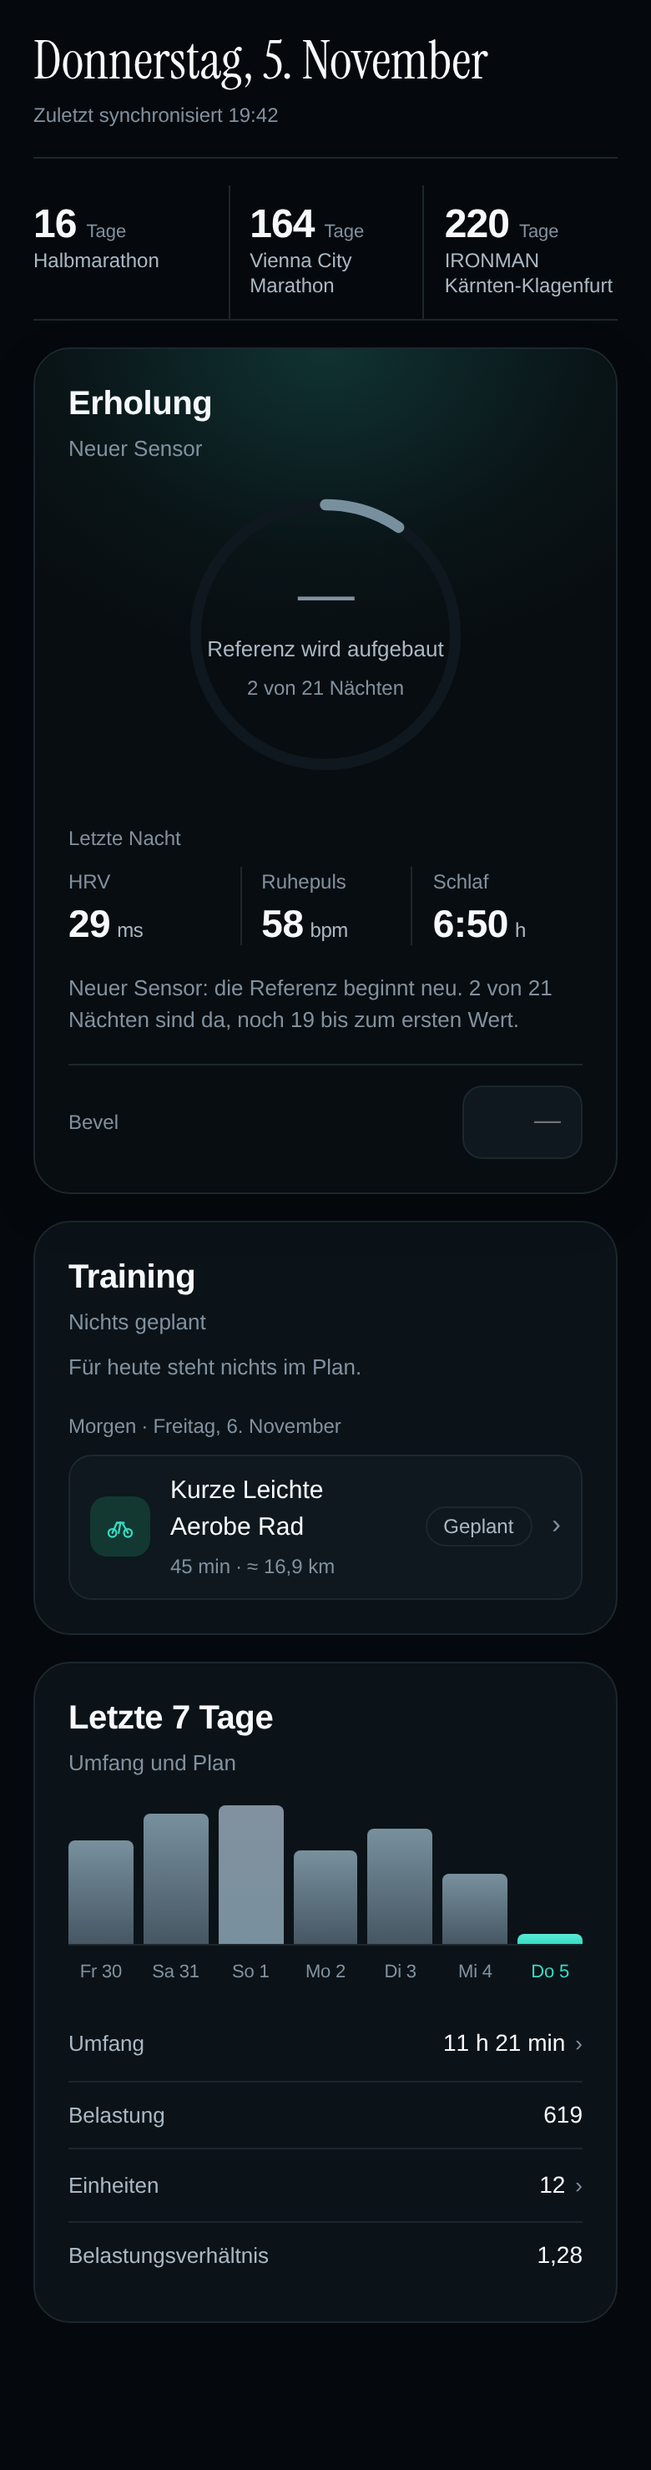
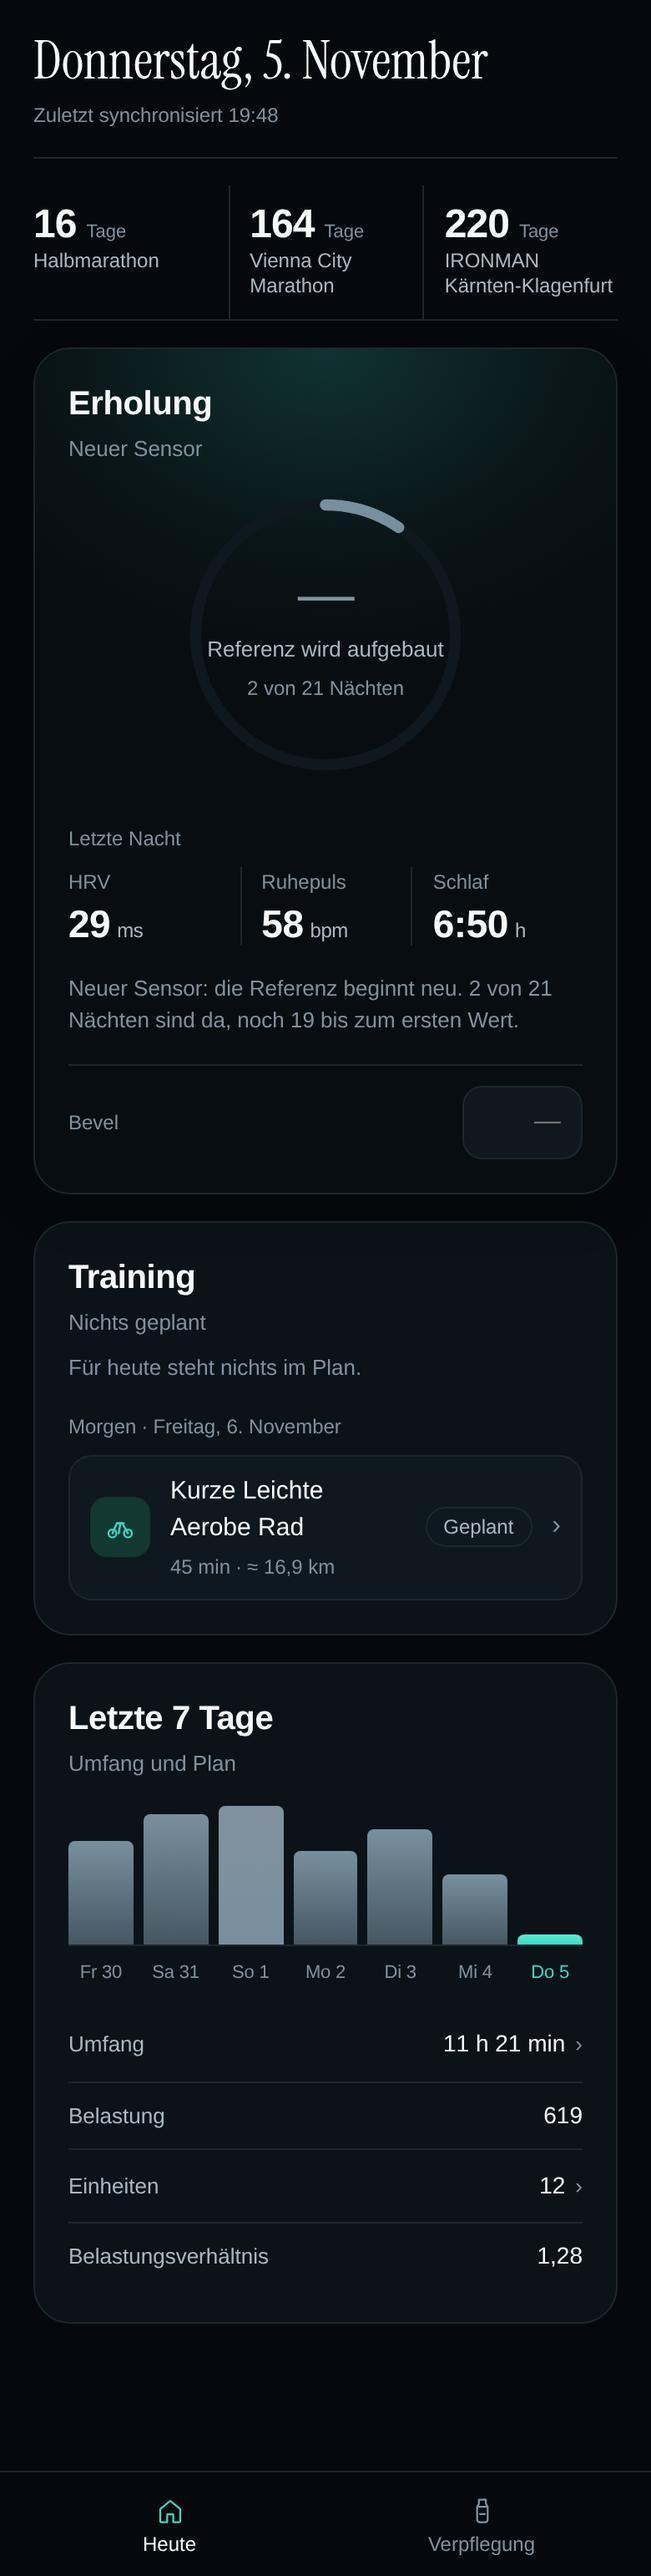
Doku: Mobile-Bild mit Tab-Leiste und Statusfarben korrigieren
Das README-Bild der Heute-Seite zeigt die Tab-Leiste am
Seitenende, statt sie für das Vollbild zu entfernen. Die
Aussage zu Grün/Gelb/Orange/Rot nennt auch erledigte
Einheiten und Fehler, nicht nur die Erholung.

diff --git a/README.md b/README.md
@@ -123,8 +123,8 @@ genau ein lokaler Lichtschein, ein Akzent, ruhige Navigation, keine Verläufe
   die Serif bleibt dem Datum im Kopf vorbehalten. Zahlen laufen mit
   `tabular-nums`, nicht in einer zweiten Schrift.
 - **Ein Akzent.** Türkis `#35DCC5` markiert den Ring, die aktive Navigation und
-  die ausgewählte Interaktion; Grün, Gelb, Orange und Rot erscheinen nur als
-  Befund der Erholung.
+  die ausgewählte Interaktion. Grün, Gelb, Orange und Rot bleiben Statusfarben
+  für Erholung, erledigte Einheiten und Fehler — nie Dekoration.
 - **Anthrazit statt Petrol.** Standardkarten liegen auf `#0B1318`, die
   Erholungskarte noch dunkler; der Seitenhintergrund ist dunkler als alle
   Karten. Unterschieden wird über Helligkeit und 1-px-Rand, nicht über Farbe.
